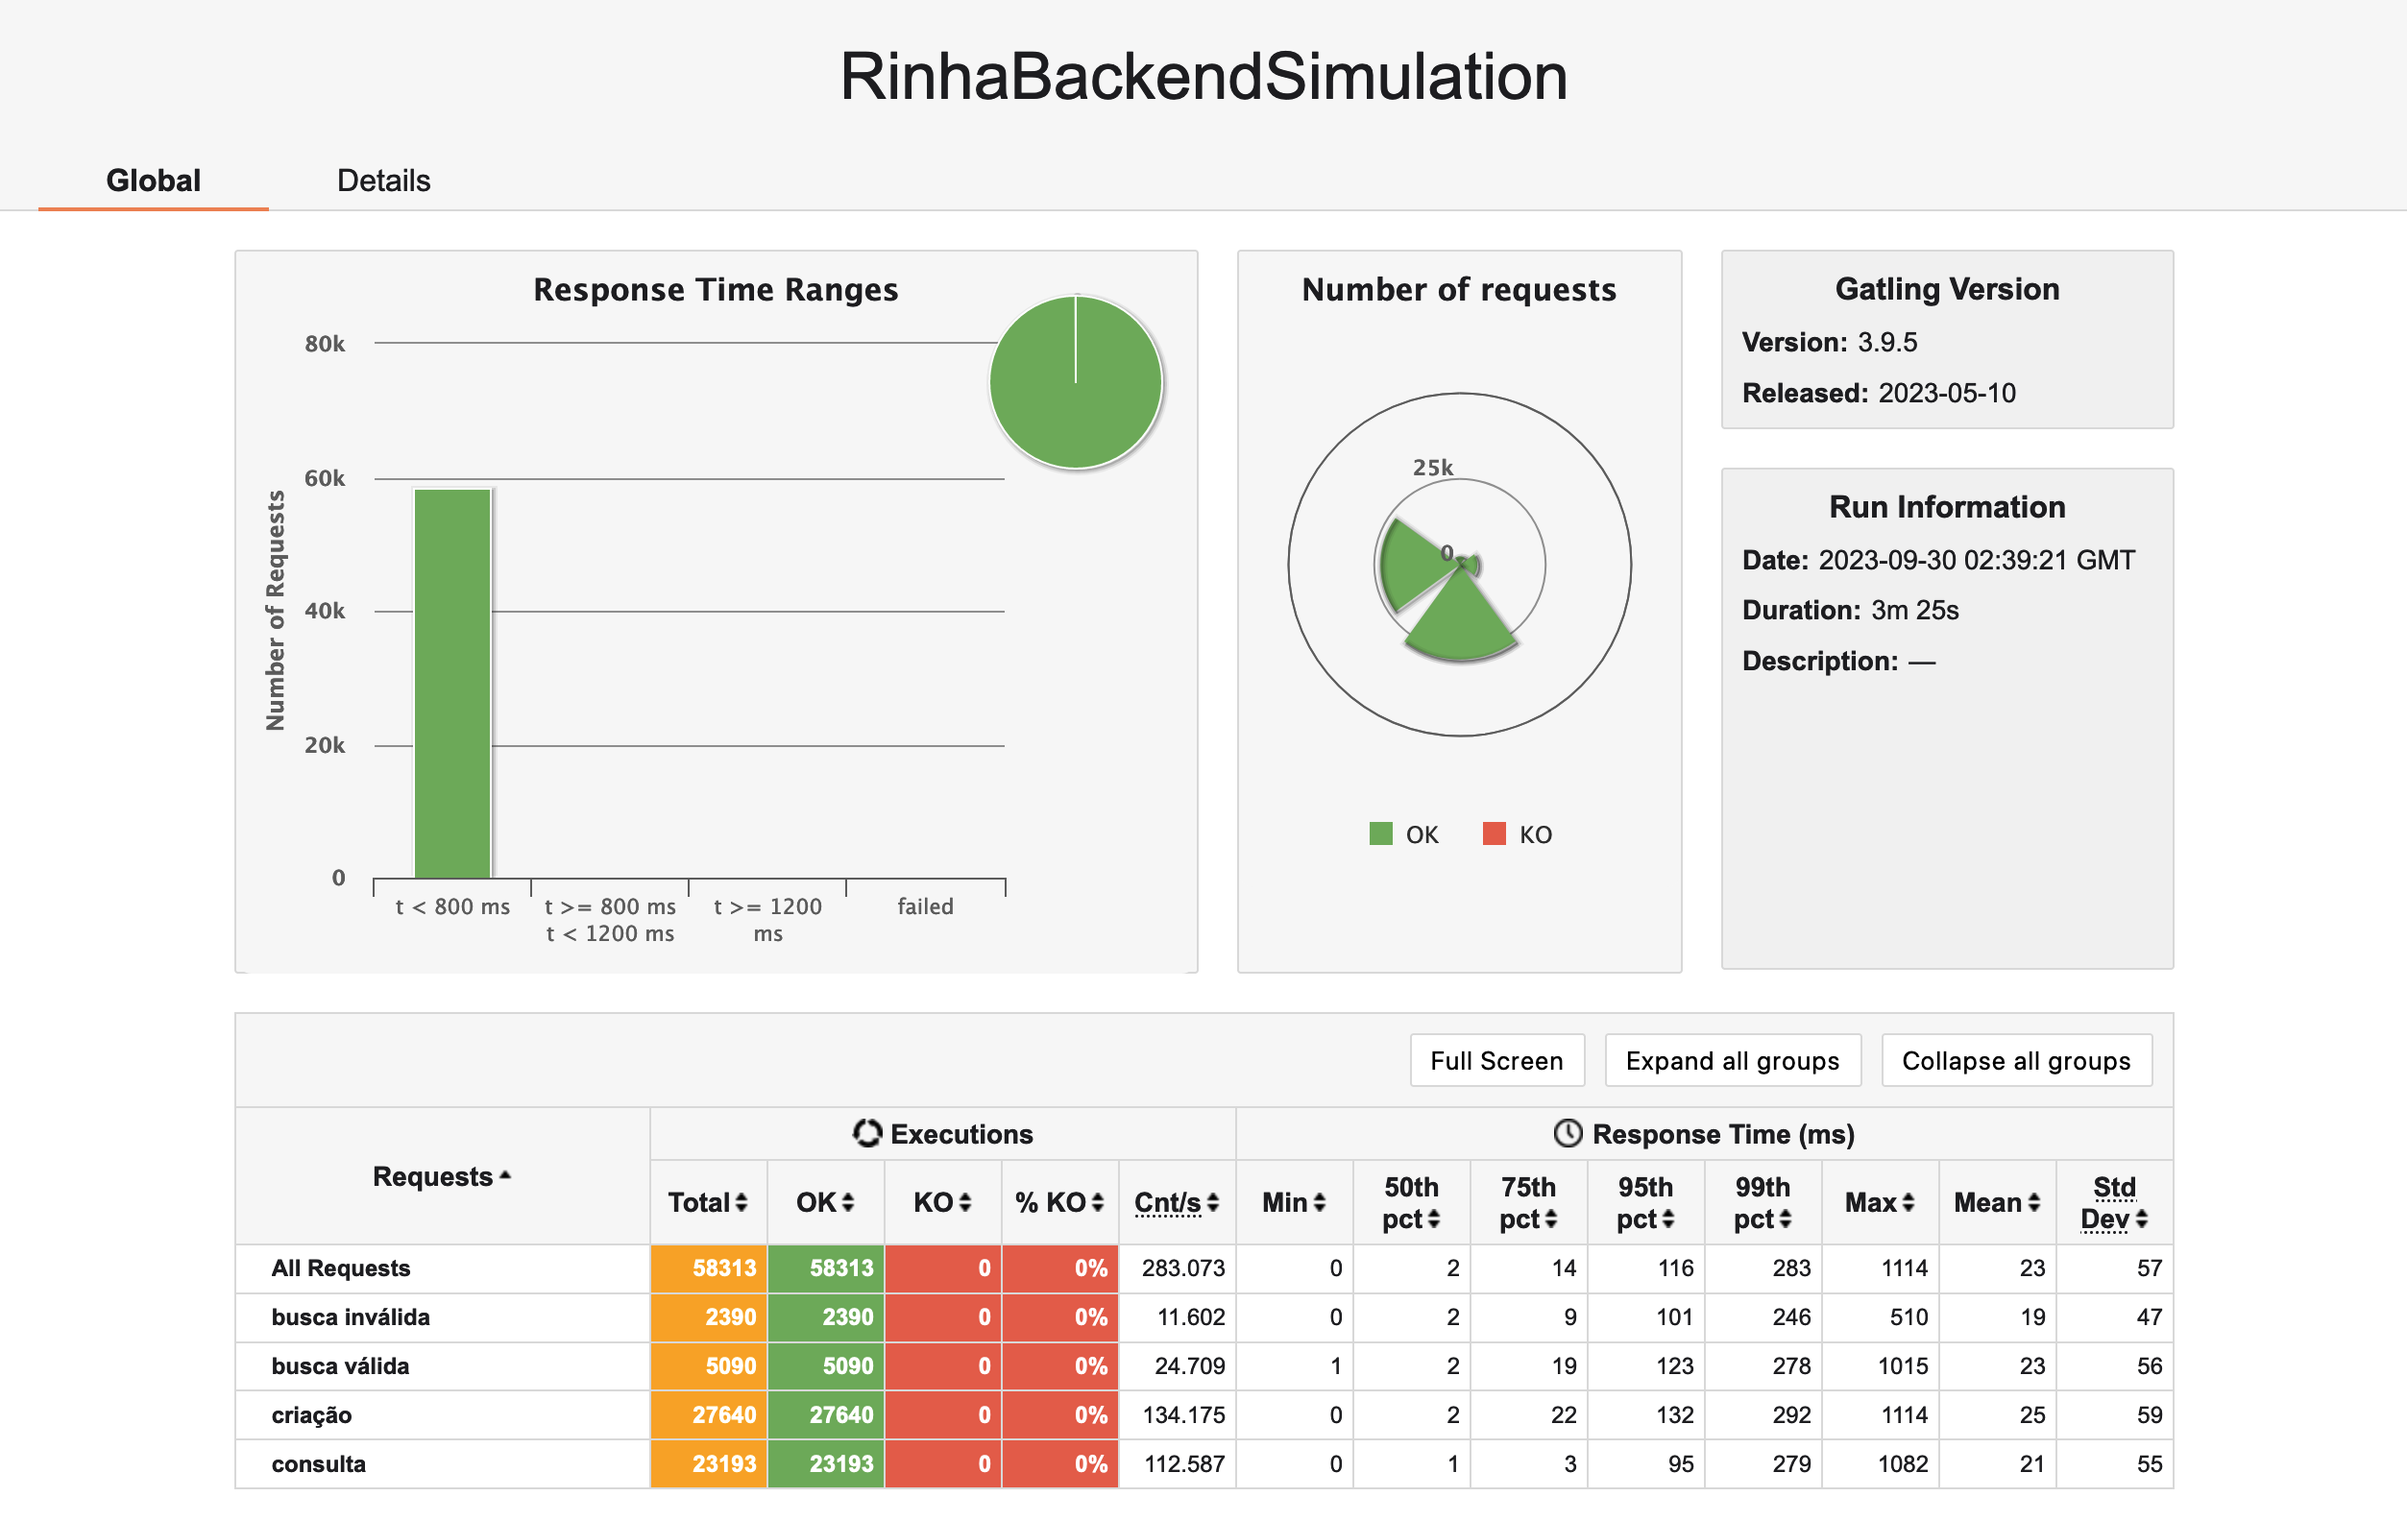
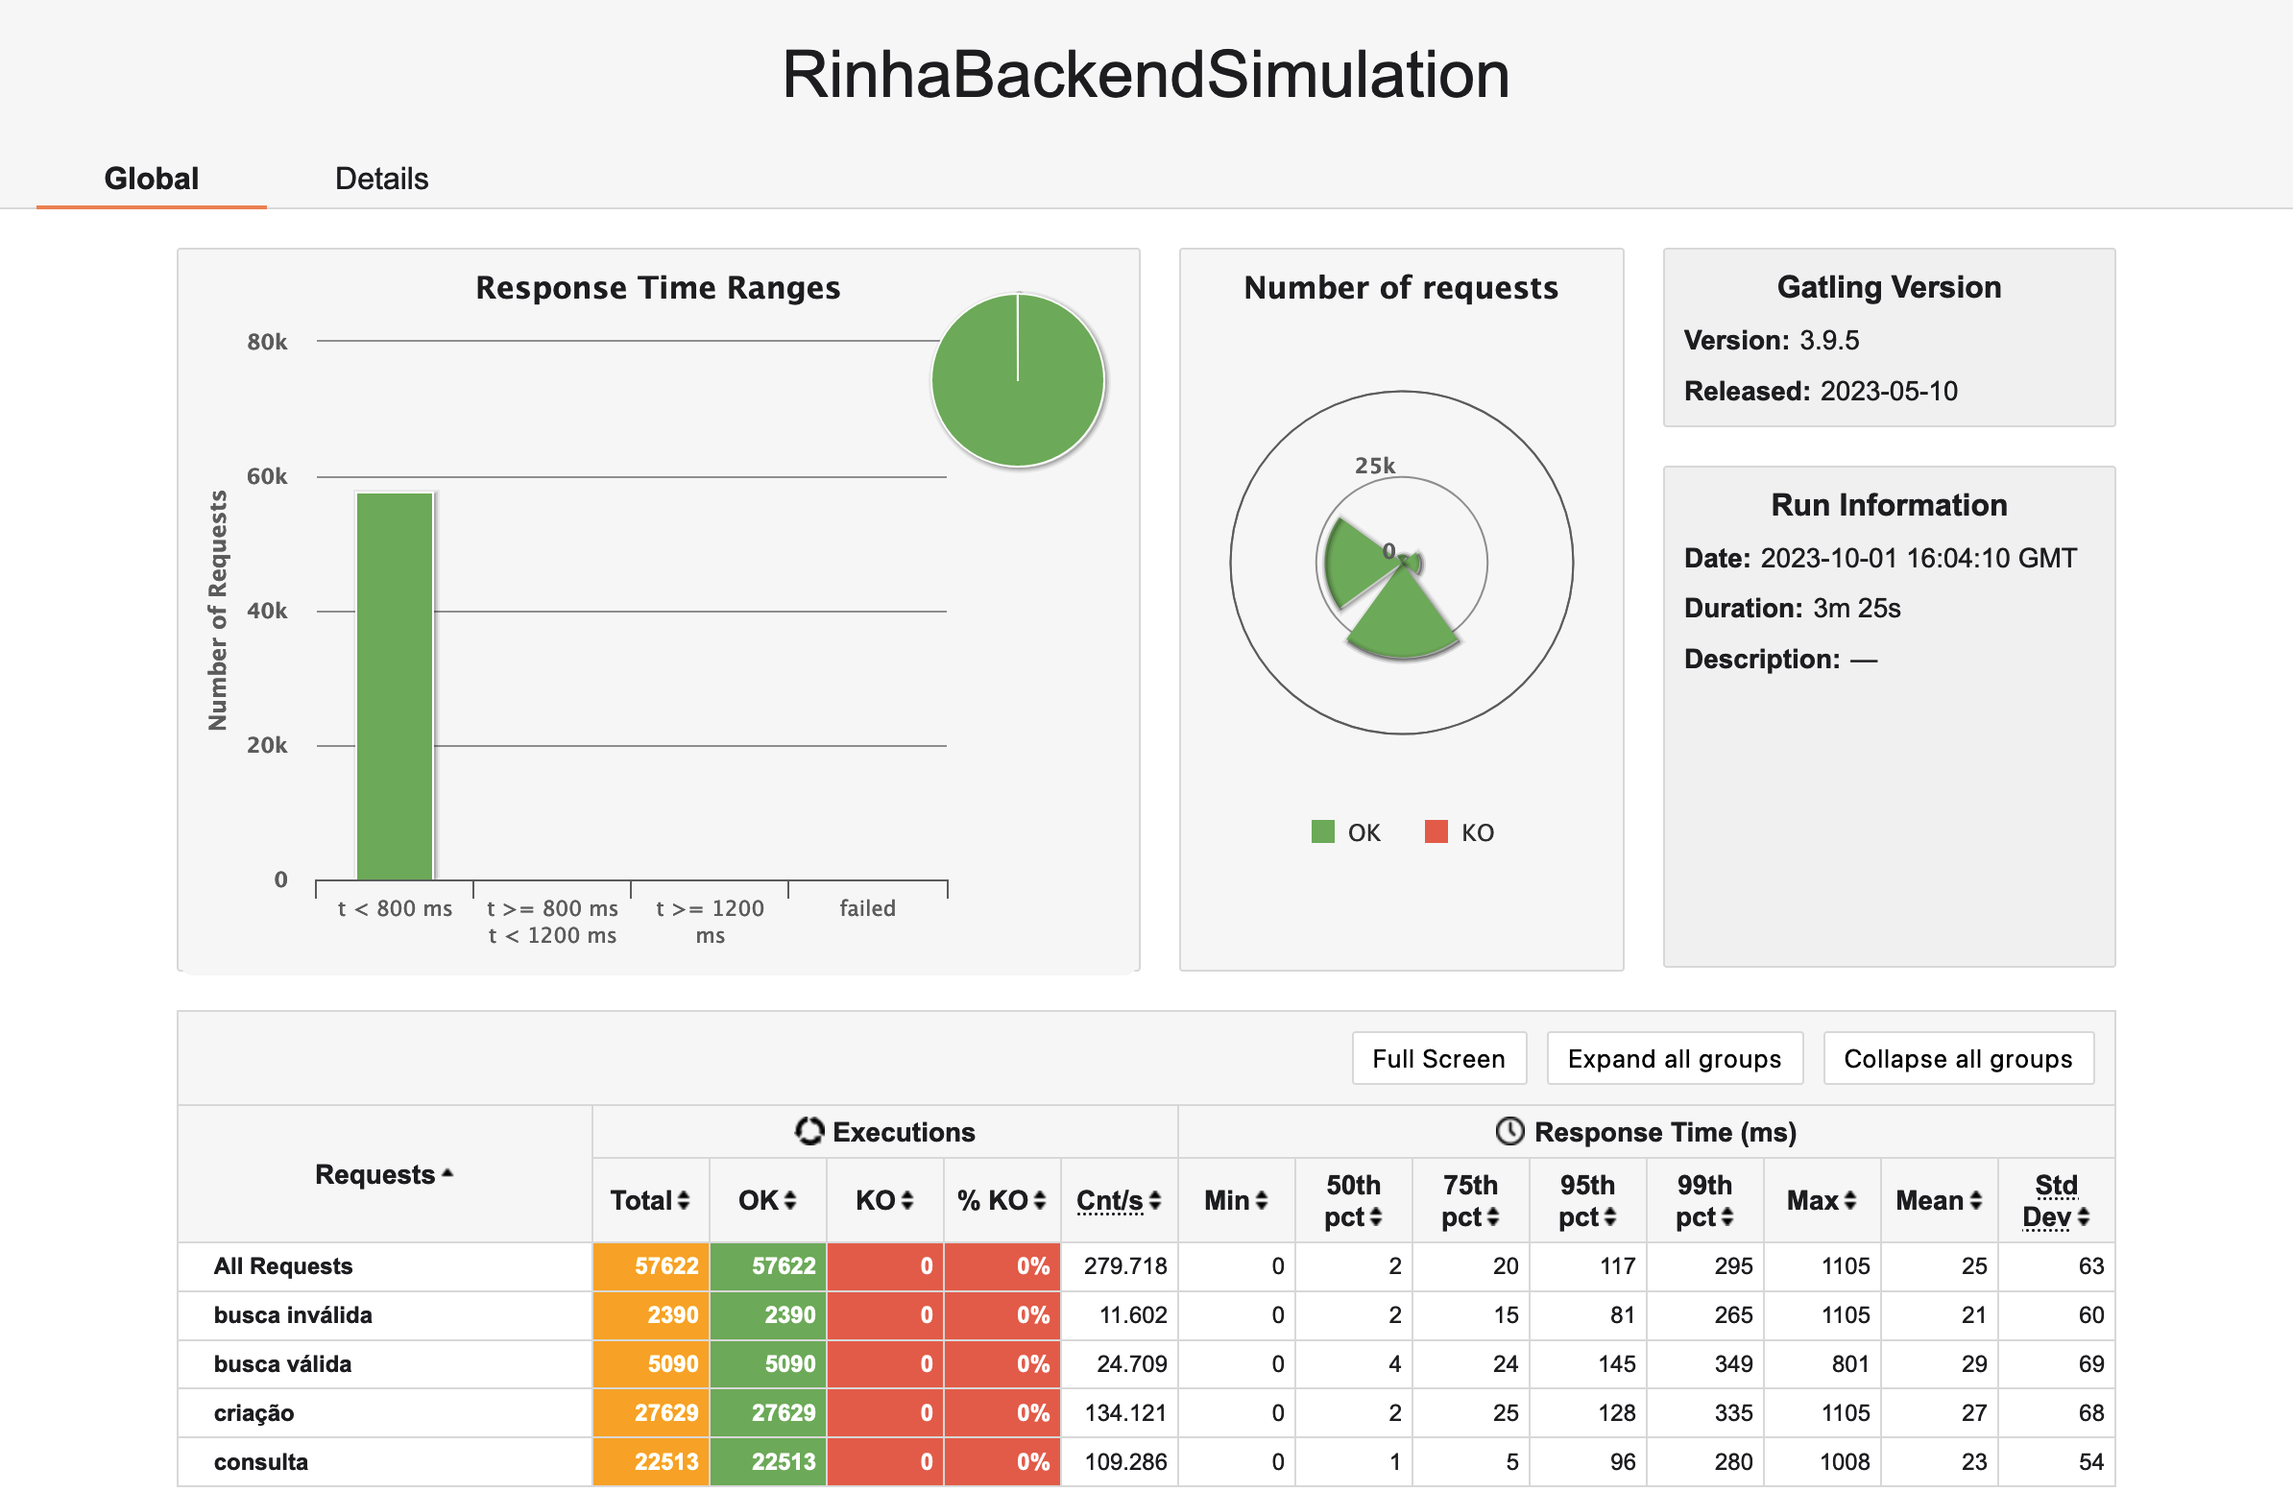
use ticks to on the workers

diff --git a/internal/pessoa/repository.go b/internal/pessoa/repository.go
@@ -104,18 +104,19 @@ func (r Repository) GetCount() (int, error) {
 
 func (r Repository) InsertBatch(pessoas []Schema) error {
 	_, err := r.Conn.CopyFrom(
-        context.Background(),
-        pgx.Identifier{"pessoas"},
-        []string{"id", "apelido", "nome", "nascimento", "stack"},
-        pgx.CopyFromSlice(len(pessoas), func (i int) ([]any, error) {
-            p := pessoas[i]
-            return []any{p.ID, p.Apelido, p.Nome, p.Nascimento, p.Stack}, nil
-        }),
-    )
+		context.Background(),
+		pgx.Identifier{"pessoas"},
+		[]string{"id", "apelido", "nome", "nascimento", "stack"},
+		pgx.CopyFromSlice(len(pessoas), func(i int) ([]any, error) {
+			p := pessoas[i]
+			stack := strings.Join(p.Stack, ", ")
+			return []any{p.ID, p.Apelido, p.Nome, p.Nascimento, stack}, nil
+		}),
+	)
 
 	if err != nil {
 		return err
 	}
 
-	return nil 
+	return nil
 }

diff --git a/internal/pessoa/handler.go b/internal/pessoa/handler.go
@@ -2,8 +2,10 @@ package pessoa
 
 import (
 	"fmt"
-	"github.com/labstack/echo/v4"
 	"net/http"
+
+	"github.com/go-playground/validator/v10"
+	"github.com/labstack/echo/v4"
 )
 
 type Handler struct {
@@ -55,8 +57,16 @@ func (h *Handler) GetById(c echo.Context) error {
 func (h *Handler) Post(c echo.Context) error {
 	cpr := new(CreateRequest)
 	if err := c.Bind(cpr); err != nil {
-		return c.JSON(http.StatusUnprocessableEntity, "")
+		return c.JSON(http.StatusUnprocessableEntity, nil)
 	}
+
+	validate := validator.New()
+	err := validate.Struct(cpr)
+	if err != nil {
+		return c.JSON(http.StatusBadRequest, err)
+	}
+
+	err = validate.Struct(cpr)
 	pessoa, err := h.service.InsertPessoa(c.Request().Context(), cpr)
 	if err != nil {
 		if err.Error() == "duplicated entry" {

diff --git a/internal/pessoa/service.go b/internal/pessoa/service.go
@@ -4,6 +4,8 @@ import (
 	"context"
 	"encoding/json"
 	"errors"
+	"fmt"
+	"time"
 
 	"github.com/google/uuid"
 	"github.com/redis/go-redis/v9"
@@ -21,16 +23,19 @@ func NewService(repository *Repository, cache *redis.Client, ch chan Schema) *Se
 
 func (s *Service) BatchInsert() {
 	sl := make([]Schema, 0)
+	ticker := time.NewTicker(time.Second)
 	for {
 		select {
 		case sch := <-s.ch:
-			{
-				sl = append(sl, sch)
+			sl = append(sl, sch)
+		case <-ticker.C:
+			if len(sl) > 0 {
+				err := s.repository.InsertBatch(sl)
+				if err != nil {
+					fmt.Println(err.Error())
+				}
+				sl = make([]Schema, 0)
 			}
-		}
-		if len(sl) >= 100 {
-			s.repository.InsertBatch(sl[0:100])
-			sl = sl[100:]
 		}
 	}
 }

diff --git a/cmd/api/main.go b/cmd/api/main.go
@@ -8,7 +8,6 @@ import (
 	"github.com/jackc/pgx/v5/pgxpool"
 	"github.com/labstack/echo-contrib/echoprometheus"
 	"github.com/labstack/echo/v4"
-	"github.com/labstack/echo/v4/middleware"
 	"github.com/redis/go-redis/v9"
 	"leonardovee.com/rinha-de-backend/internal/api"
 	"leonardovee.com/rinha-de-backend/internal/pessoa"
@@ -31,7 +30,7 @@ func main() {
 
 	e := echo.New()
 	e.Use(echoprometheus.NewMiddleware("rinha_de_backend"))
-	e.Use(middleware.Logger())
+	//e.Use(middleware.Logger())
 	e.GET("/metrics", echoprometheus.NewHandler())
 
 	api.Setup(e, &api.Handlers{Pessoa: p})
